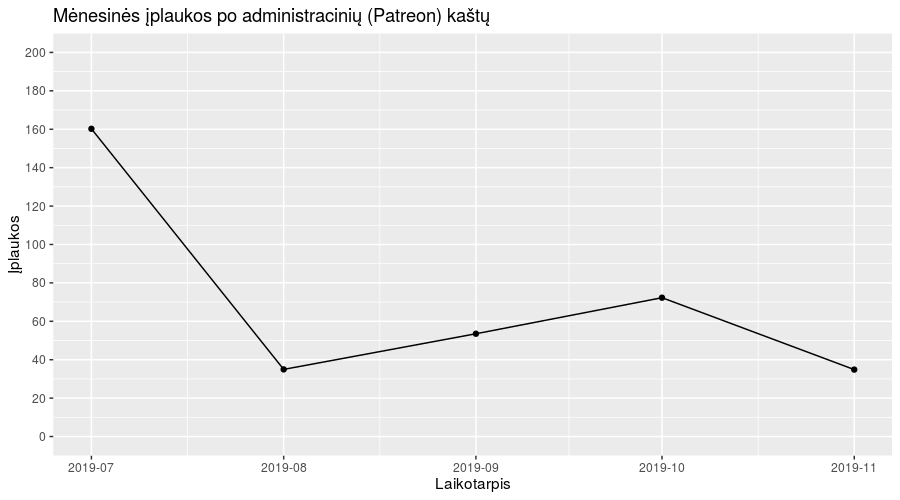
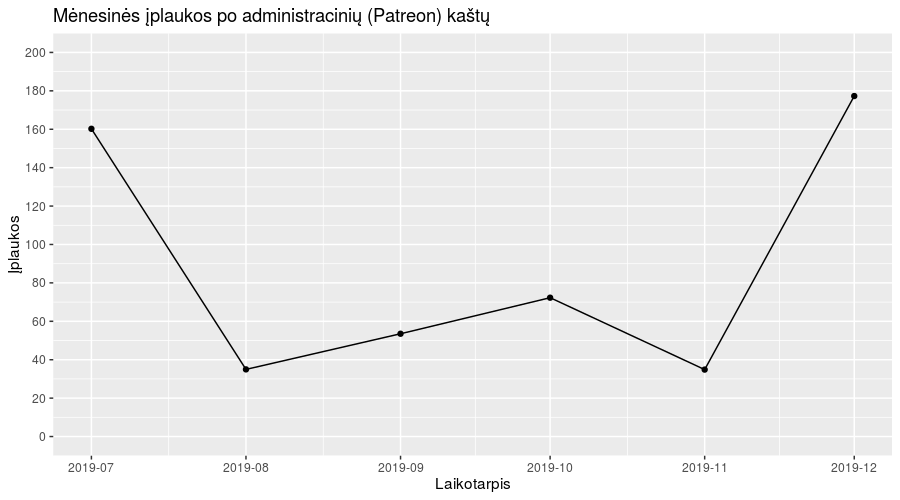
update

diff --git a/_site/fin-report/index.html b/_site/fin-report/index.html
@@ -233,6 +233,26 @@
       <td style="text-align: left">Marius</td>
       <td style="text-align: right">5</td>
     </tr>
+    <tr>
+      <td style="text-align: left">2019-12-05</td>
+      <td style="text-align: left">Andrius</td>
+      <td style="text-align: right">10</td>
+    </tr>
+    <tr>
+      <td style="text-align: left">2019-12-09</td>
+      <td style="text-align: left">Lamps</td>
+      <td style="text-align: right">100</td>
+    </tr>
+    <tr>
+      <td style="text-align: left">2019-12-13</td>
+      <td style="text-align: left">Arturas</td>
+      <td style="text-align: right">5</td>
+    </tr>
+    <tr>
+      <td style="text-align: left">2019-12-19</td>
+      <td style="text-align: left">Aldona</td>
+      <td style="text-align: right">50</td>
+    </tr>
   </tbody>
 </table>
 
@@ -248,35 +268,27 @@
   <tbody>
     <tr>
       <td style="text-align: left">Milda</td>
-      <td style="text-align: right">25</td>
+      <td style="text-align: right">35</td>
     </tr>
     <tr>
       <td style="text-align: left">Gintaras</td>
-      <td style="text-align: right">15</td>
-    </tr>
-    <tr>
-      <td style="text-align: left">Egidijus</td>
-      <td style="text-align: right">9</td>
+      <td style="text-align: right">21</td>
     </tr>
     <tr>
       <td style="text-align: left">Andrius</td>
-      <td style="text-align: right">5</td>
+      <td style="text-align: right">7</td>
     </tr>
     <tr>
       <td style="text-align: left">Doma</td>
-      <td style="text-align: right">5</td>
+      <td style="text-align: right">7</td>
     </tr>
     <tr>
-      <td style="text-align: left">Lauryna</td>
+      <td style="text-align: left">Vidas</td>
       <td style="text-align: right">5</td>
     </tr>
     <tr>
       <td style="text-align: left">Mariu</td>
-      <td style="text-align: right">3</td>
-    </tr>
-    <tr>
-      <td style="text-align: left">Vidas</td>
-      <td style="text-align: right">3</td>
+      <td style="text-align: right">4</td>
     </tr>
   </tbody>
 </table>
@@ -312,6 +324,10 @@
     <tr>
       <td style="text-align: left">2019-11-01</td>
       <td style="text-align: right">34.85</td>
+    </tr>
+    <tr>
+      <td style="text-align: left">2019-12-01</td>
+      <td style="text-align: right">177.29</td>
     </tr>
   </tbody>
 </table>
